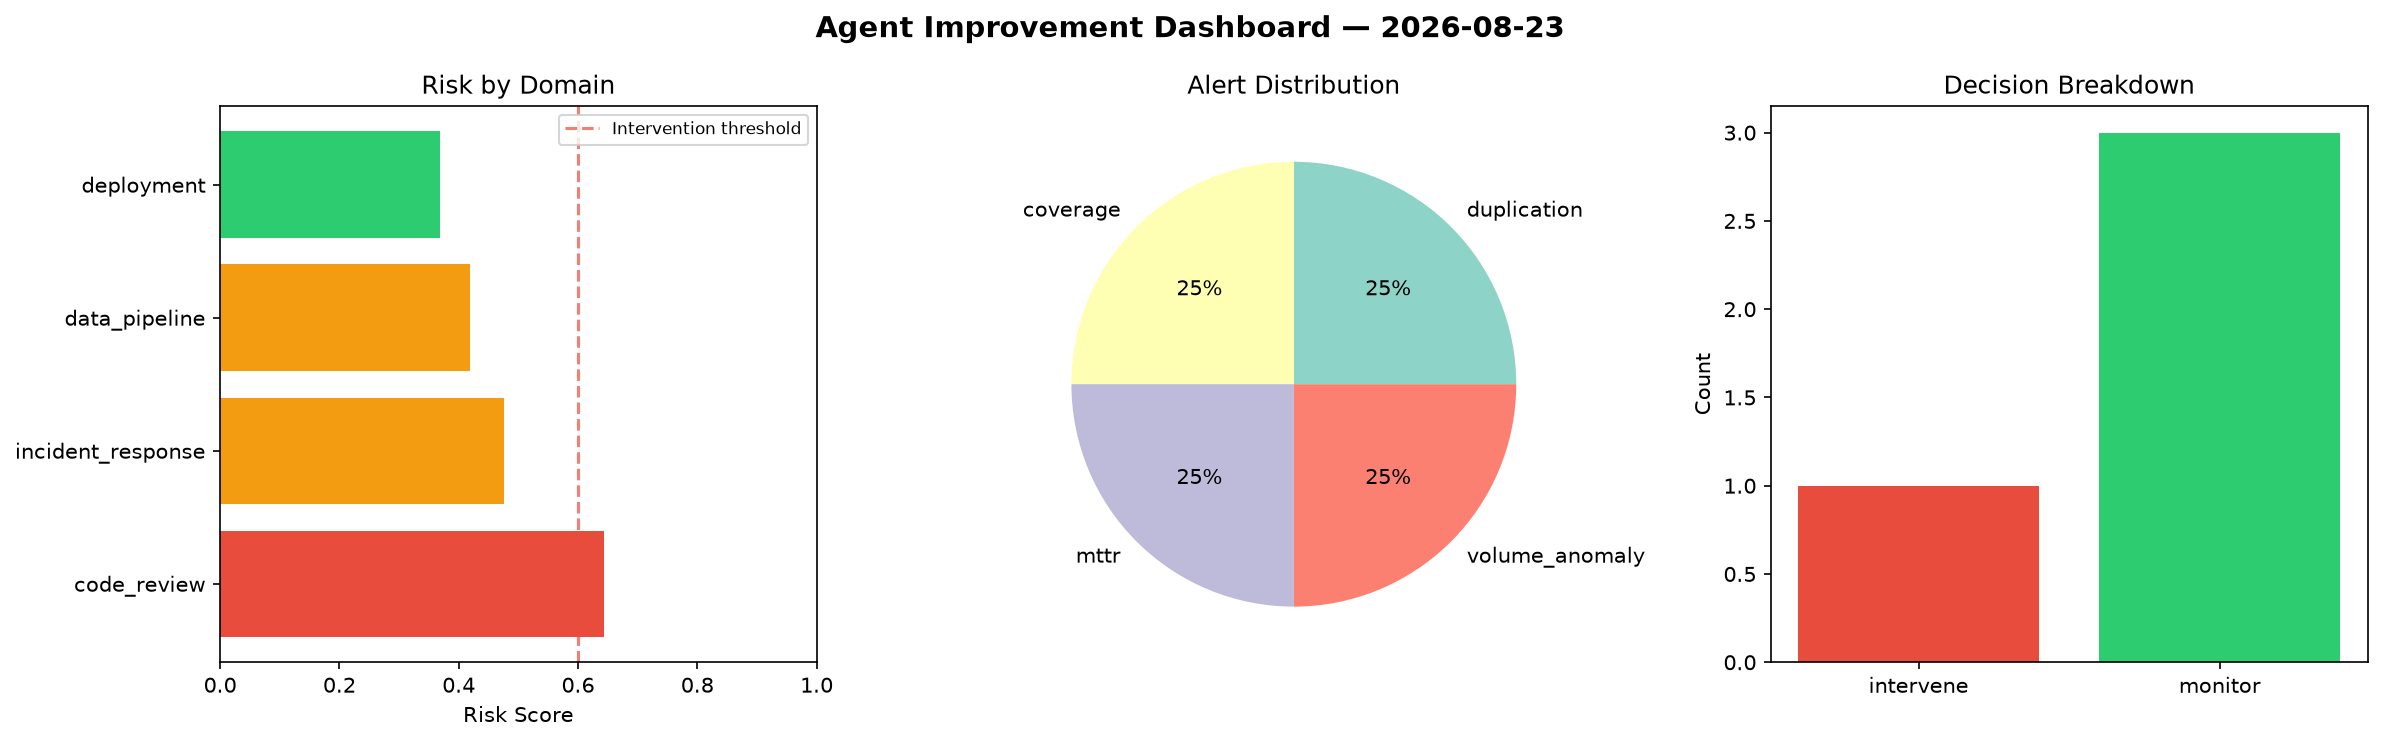
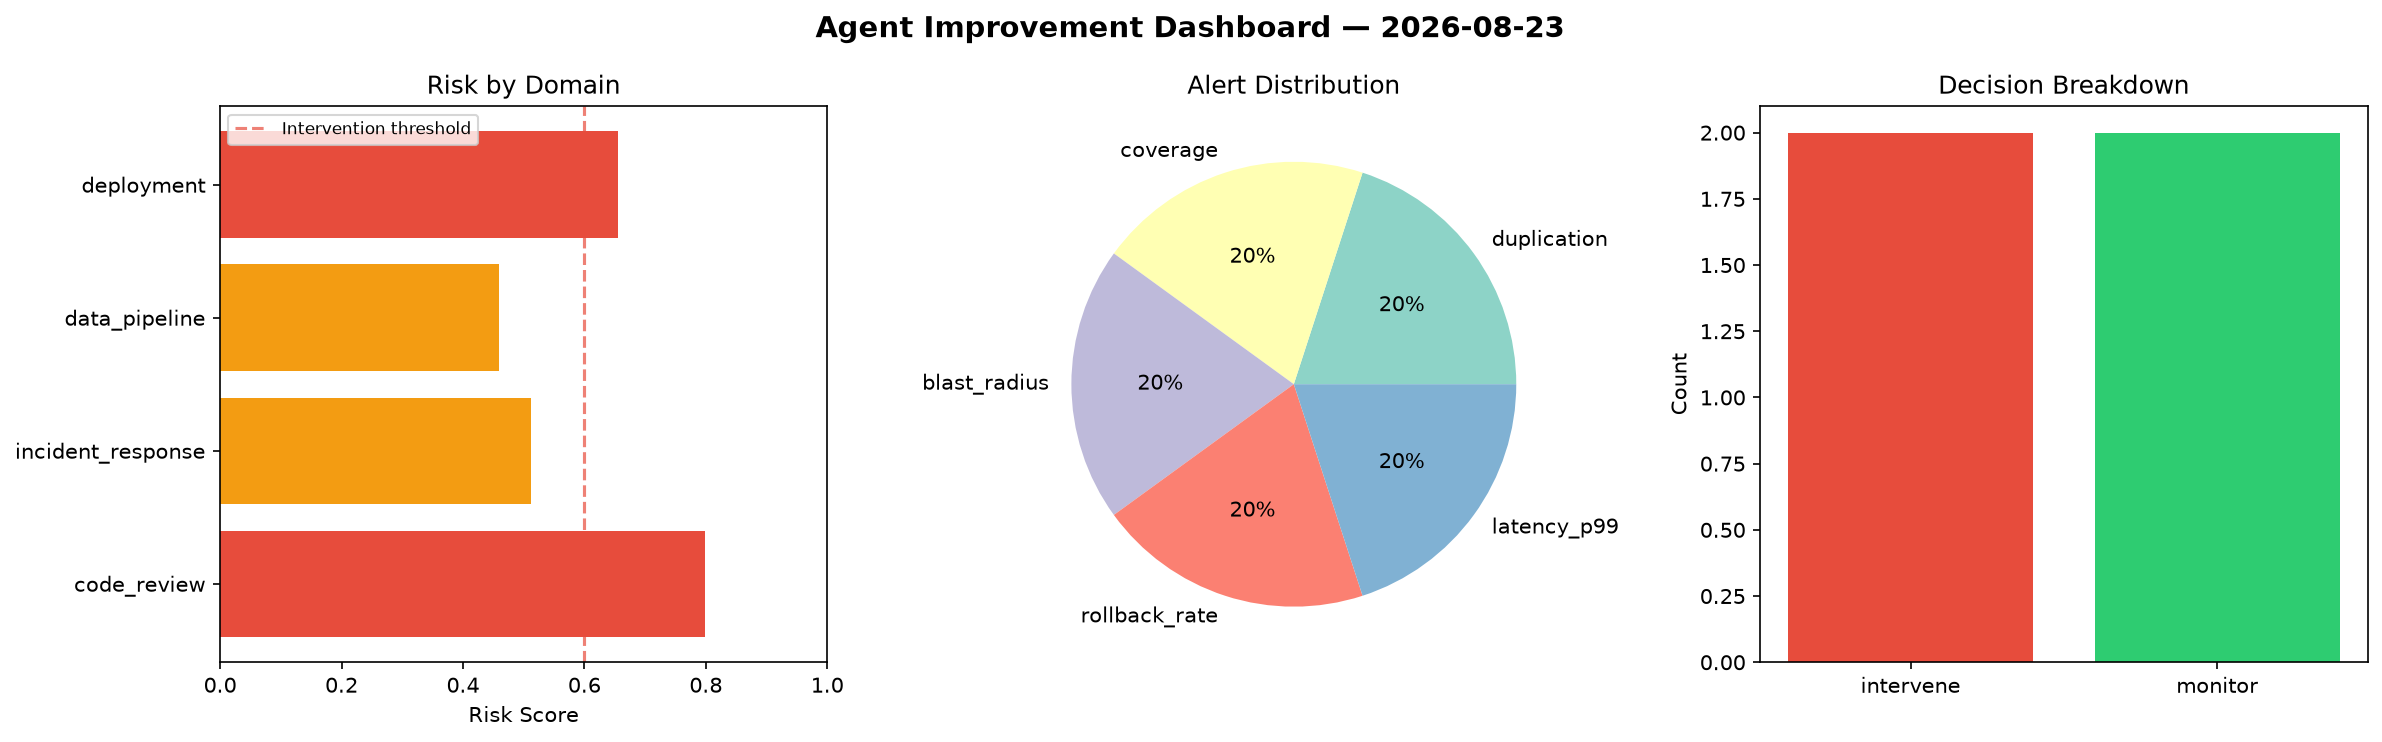
agent-improvement: daily cycle 2026-08-23T20:36

diff --git a/logs/2026-08-23.md b/logs/2026-08-23.md
@@ -1,6 +1,6 @@
 # Agent Improvement Report — 2026-08-23
 
-**Cycle ID:** `92a544ea` | **Avg Risk:** 0.4768 | **Interventions:** 1/4
+**Cycle ID:** `323dc049` | **Avg Risk:** 0.6061 | **Interventions:** 2/4
 
 ![Dashboard](2026-08-23_dashboard.png)
 
@@ -10,18 +10,18 @@
 
 | Domain | Risk Score | Decision | Alerts |
 |--------|-----------|----------|--------|
-| code_review | 0.644 | intervene | duplication, coverage |
-| incident_response | 0.4753 | monitor | mttr |
-| data_pipeline | 0.4191 | monitor | volume_anomaly |
-| deployment | 0.3689 | monitor | none |
+| code_review | 0.7978 | intervene | duplication, coverage |
+| incident_response | 0.5116 | monitor | blast_radius |
+| data_pipeline | 0.4598 | monitor | none |
+| deployment | 0.6552 | intervene | rollback_rate, latency_p99 |
 
 ## Delta vs Yesterday
 
 | Domain | Today | Yesterday | Change |
 |--------|-------|-----------|--------|
-| code_review | 0.644 | 0.4906 | 📈 31.3% |
-| incident_response | 0.4753 | 0.337 | 📈 41.0% |
-| data_pipeline | 0.4191 | 0.6645 | 📉 -36.9% |
-| deployment | 0.3689 | 0.4008 | 📉 -8.0% |
+| code_review | 0.7978 | 0.4906 | 📈 62.6% |
+| incident_response | 0.5116 | 0.337 | 📈 51.8% |
+| data_pipeline | 0.4598 | 0.6645 | 📉 -30.8% |
+| deployment | 0.6552 | 0.4008 | 📈 63.5% |
 
 **Refinement:** `{'adjustment': 'maintain', 'trend': 'improving', 'window': 4}`
